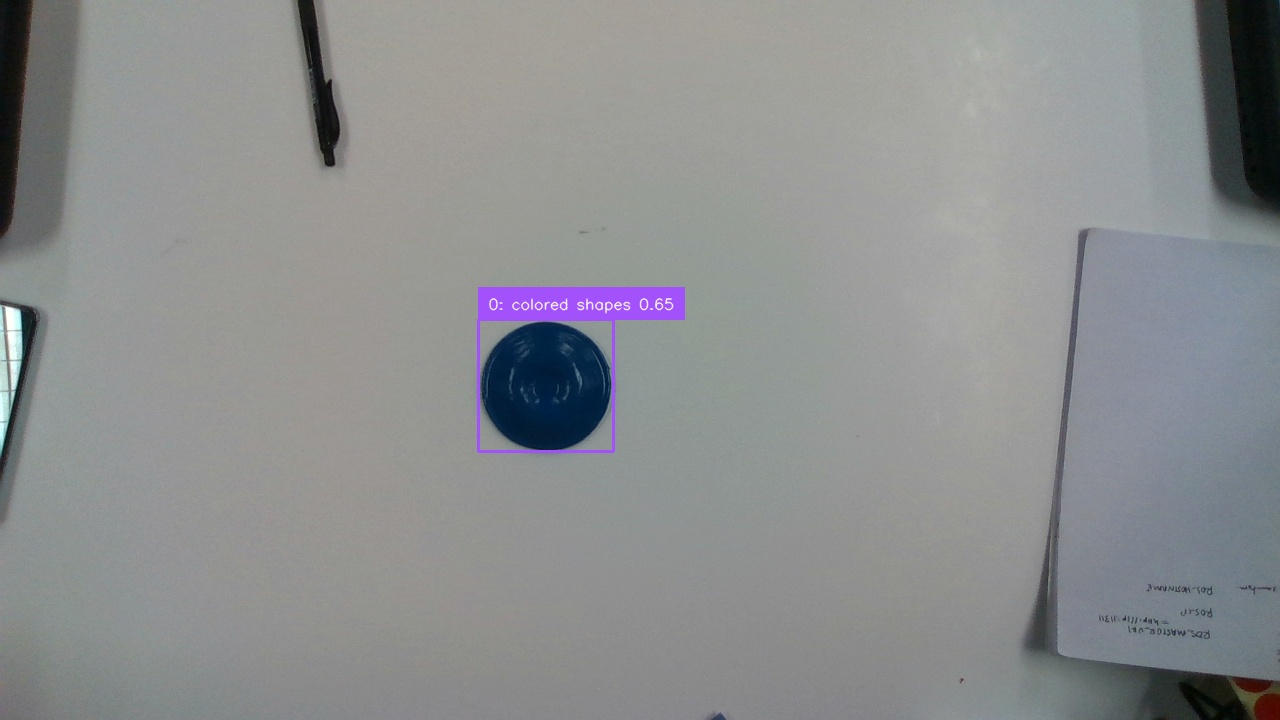
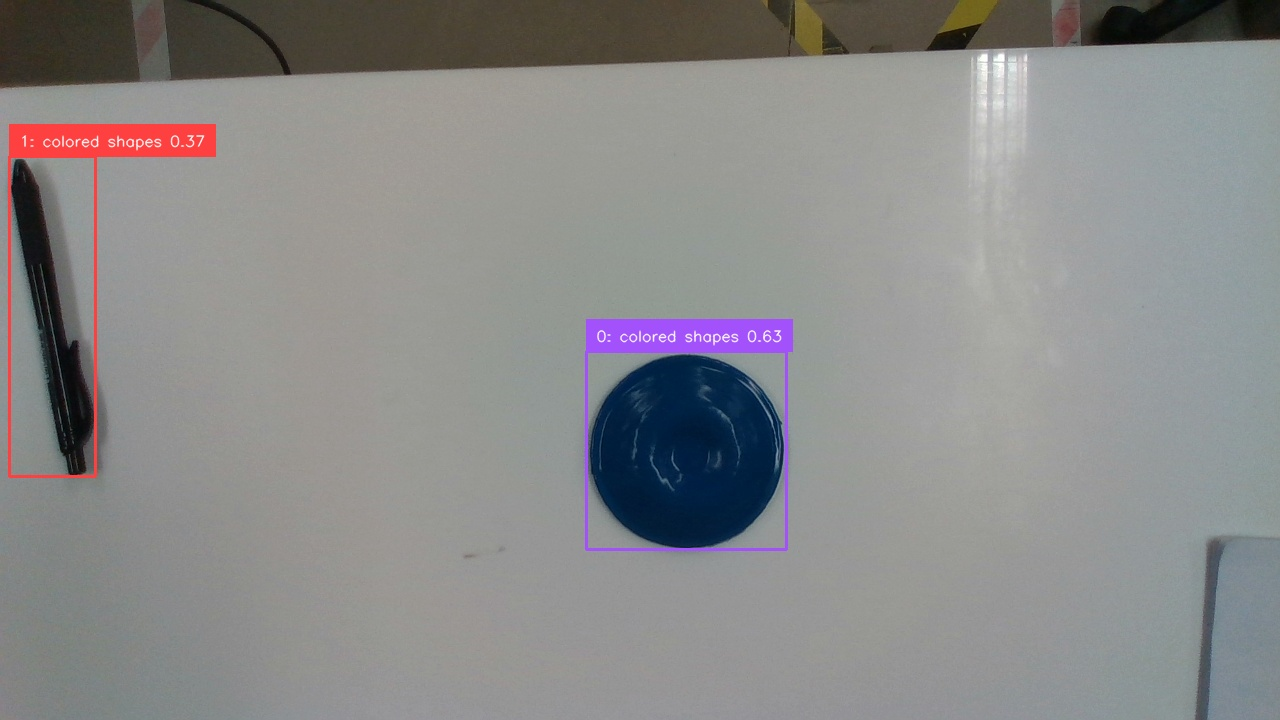
multistep perception for both pick and place codes

diff --git a/central_scripts/scripts/client_v4.py b/central_scripts/scripts/client_v4.py
@@ -313,6 +313,7 @@ if __name__ == "__main__":
         #     source_object_position.pose.position.x += 0
         #     source_object_position.pose.position.y -= 0
         destination_object_position = DROP_POSE
+        source_object_position.pose.orientation = ORIENTATION_POSE.pose.orientation
         action_parsed = {
             "source_object_position": source_object_position,
             "target_object_position": destination_object_position

diff --git a/open_set_object_detection/scripts/inference_images/CHANGELOG.rst b/open_set_object_detection/scripts/inference_images/CHANGELOG.rst
@@ -1,0 +1,1 @@
+changelog idk what that it is, but this is to not erase a useful empty directory

diff --git a/create_2025_mp_server_msgs/include/CHANGELOG.rst b/create_2025_mp_server_msgs/include/CHANGELOG.rst
@@ -1,0 +1,1 @@
+something to not ignore a useful empty directory
